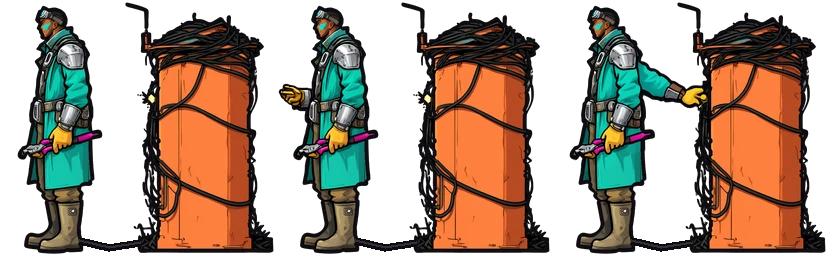
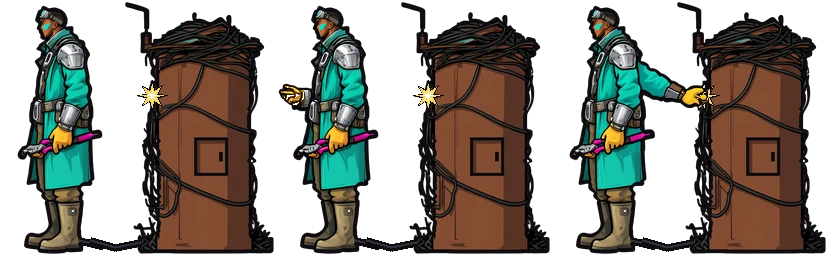
Signal Tower: live-wires cabinet and a slim mast after the audit (FAL-951)
Live-wires: the junction box is a dark rust iron cabinet again, with the
inked access panel and a flat spark star. Only the box was re-rendered;
the man, cable and arms keep their pixels. Mast-climber: the mast is built
on the CPU at the old width behind the rendered climber, with closed,
filled shapes. Only x, w, h, ox and oy changed in the mast JSON.

diff --git a/assets/journey/README.md b/assets/journey/README.md
@@ -120,8 +120,8 @@ move. Their dialogue portraits are in `assets/portraits/` (see its README).
 | `encounters/cell/guard.webp` + `.json` | idle 110×252, talk 110×252 | idle [idle] (1), talk [idle, talk] (4, loop) | feet point | 13,000 |
 | `encounters/st-coffee-cart.webp` + `.json` | idle 207×254, talk 207×254 | idle [idle] (1), talk [idle, talk] (4, loop) | feet point | 29,186 |
 | `encounters/st-hush-water.webp` + `.json` | idle 177×251, talk 177×251, bust 177×251 | idle [idle] (1), talk [idle, talk] (4, loop), bust [bust] (1, once) | feet point | 31,160 |
-| `encounters/st-live-wires.webp` + `.json` | idle 272×252, talk 272×252, bust 272×252 | idle [idle] (1), talk [idle, talk] (4, loop), bust [bust] (1, once) | feet point | 51,480 |
-| `encounters/st-mast-climber.webp` + `.json` | idle 146×251, talk 146×251 | idle [idle] (1), talk [idle, talk] (4, loop) | feet point | 19,870 |
+| `encounters/st-live-wires.webp` + `.json` | idle 272×252, talk 272×252, bust 272×252 | idle [idle] (1), talk [idle, talk] (4, loop), bust [bust] (1, once) | feet point | 46,972 |
+| `encounters/st-mast-climber.webp` + `.json` | idle 141×252, talk 141×252 | idle [idle] (1), talk [idle, talk] (4, loop) | feet point | 14,358 |
 | `encounters/st-numbers-station.webp` + `.json` | idle 194×251, talk 194×251 | idle [idle] (1), talk [idle, talk] (4, loop) | feet point | 24,890 |
 | `encounters/st-permit-booth.webp` + `.json` | idle 177×251, talk 177×251, bust 177×251 | idle [idle] (1), talk [idle, talk] (4, loop), bust [bust] (1, once) | feet point | 28,240 |
 | `enemies/d1-scavenger.webp` + `d1-scavenger.json` | idle 143×230, step-a 161×225, step-b 144×229, step-c 155×228, attack 212×229, hurt 126×222, defeated 161×223 | idle [idle] (1), walk [step-a, step-b, step-c, idle] (8), attack [attack] (1, once), hurt [hurt] (1, once), defeated [defeated] (1, once) | feet point | 113,653 |
@@ -199,3 +199,8 @@ batch lands, that sheet is still in the painted style.
   convention are unchanged; only `x`, `w`, `h`, `ox`, `oy` were re-measured (heights 248 → 251-254 px). Live-wires
   is 272 px wide instead of 316 because the old painted ground patch is gone; a short inked cable from his boot to
   the junction box keeps the frame one piece. The coffee seller's apron is one solid brown.
+  After the audit: the live-wires box is a square-cornered dark rust iron cabinet again, with its inked access
+  panel and a flat yellow/white spark star on the side facing him (only the box was re-rendered; the man, cable and
+  arms are the same pixels). The mast-climber's mast is drawn on the CPU behind the rendered climber, at the old
+  mast's width and positions: a slim pole and back rail in one steel grey with one shadow tone, and the boxes,
+  panels and cable runs as closed, filled, inked shapes.
